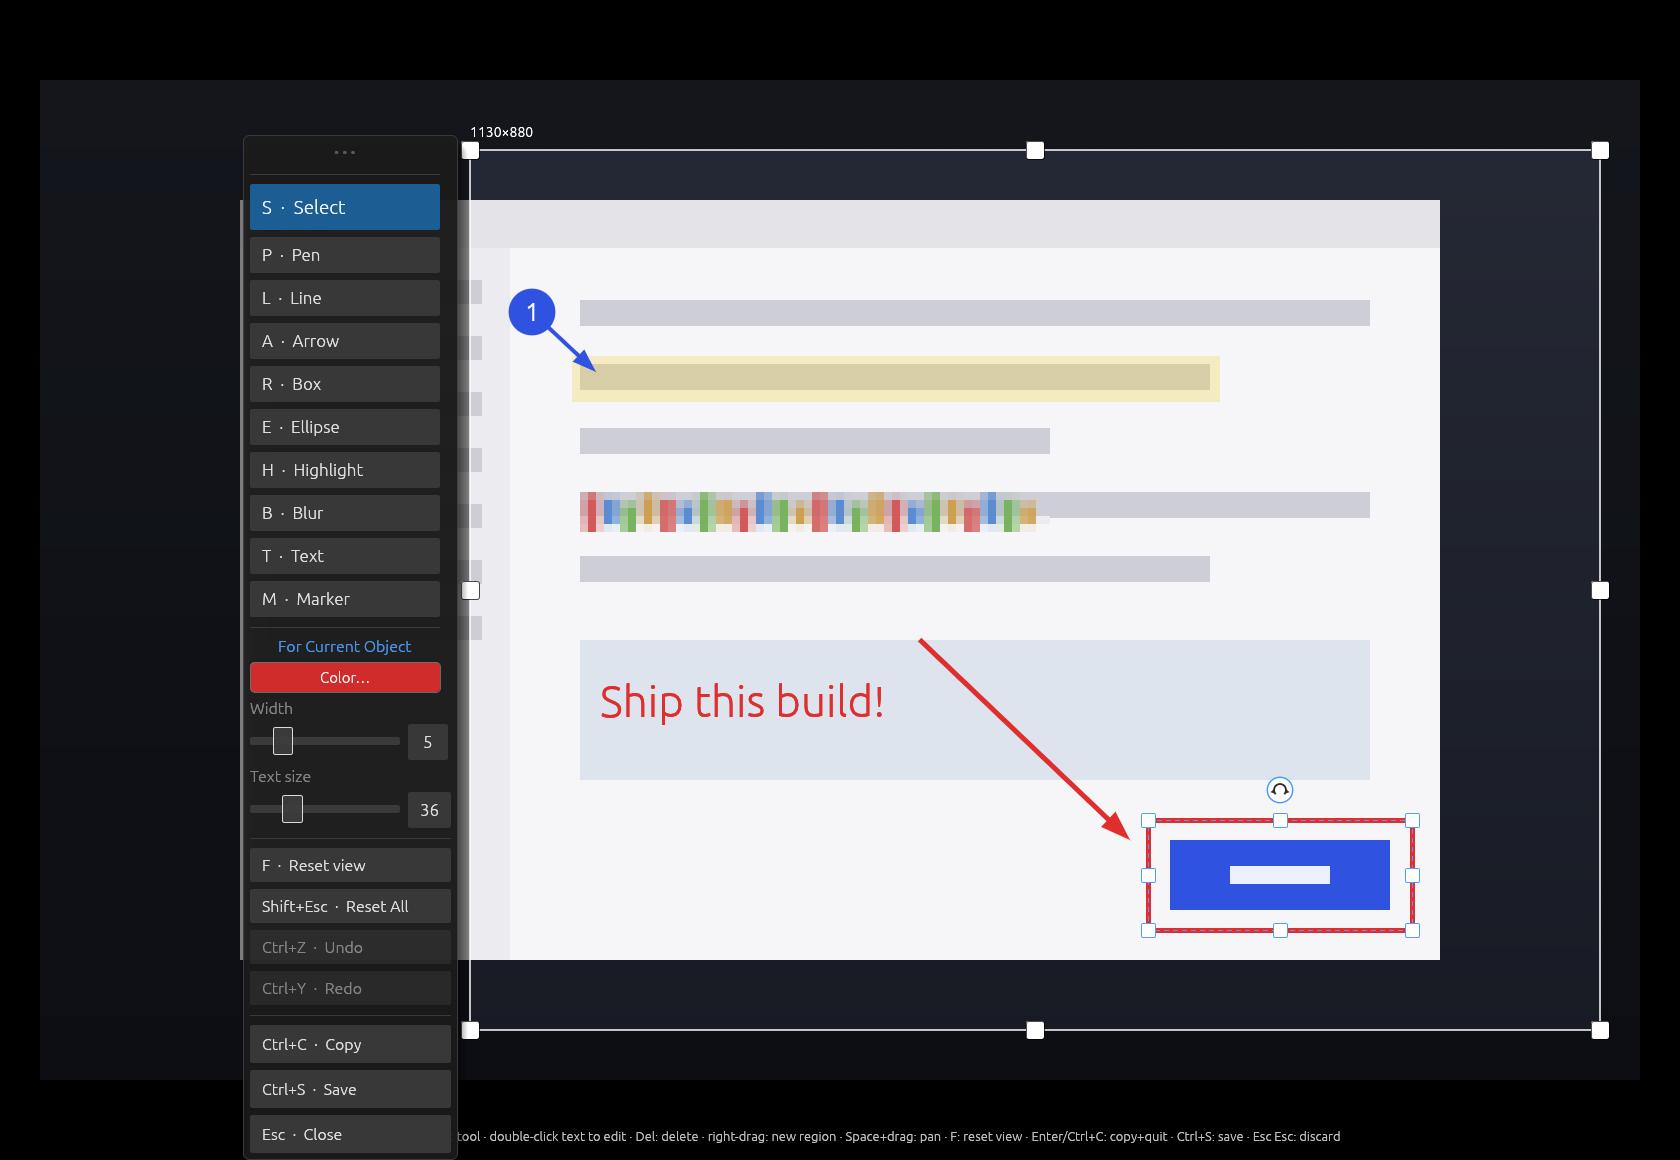
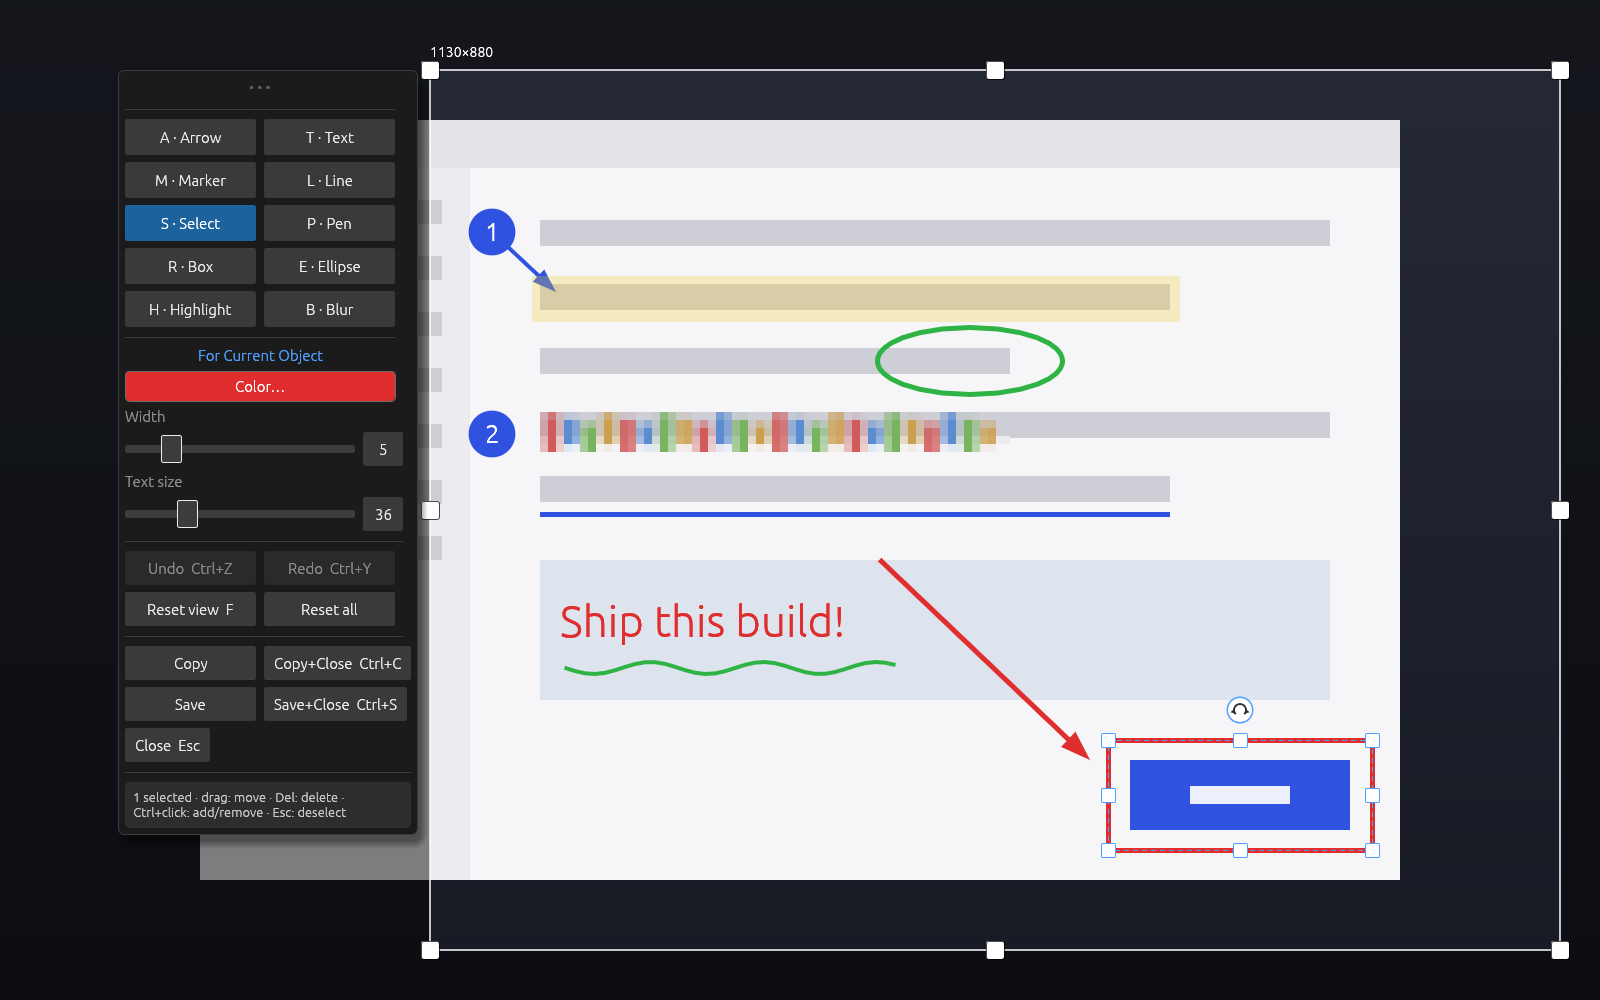
Demo scenes for multiselect and text; refresh README screenshots
- one shared demo document now exercises every tool (adds ellipse,
  line, pen underline, untargeted marker)
- SCRANNOTATE_DEMO gains multiselect and text modes; demo window
  sized 1600x1000 so the frame fills the canvas
- README embeds the two new shots; CONTRIBUTING documents the
  four-mode regen loop

diff --git a/src/app.rs b/src/app.rs
@@ -103,62 +103,83 @@ impl ScreencapApp {
         app
     }
 
-    /// Canned scene for the README screenshots
-    /// (`SCRANNOTATE_DEMO=annotate|picker`).
+    /// Canned scenes for the README screenshots
+    /// (`SCRANNOTATE_DEMO=annotate|multiselect|text|picker`). One shared
+    /// document places every tool's output on the synthetic desktop; the
+    /// modes differ only in what is selected, mid-edit, or popped up.
     fn seed_demo(&mut self, mode: &str) {
         let style = |color, width: f32, font_size: f32| Style { color, width, font_size };
-        let red = PALETTE[0];
+        let rect = |x0: f32, y0: f32, x1: f32, y1: f32| {
+            Rect::from_min_max(Pos2::new(x0, y0), Pos2::new(x1, y1))
+        };
+        let [red, yellow, green, blue, ..] = PALETTE;
         self.editor.style = style(red, 5.0, 36.0);
-        self.editor.doc.region =
-            Some(Rect::from_min_max(Pos2::new(430.0, 70.0), Pos2::new(1560.0, 950.0)));
-        let annotations = vec![
-            Annotation::new(
-                Shape::Rect {
-                    rect: Rect::from_min_max(Pos2::new(1108.0, 740.0), Pos2::new(1372.0, 850.0)),
-                },
-                style(red, 5.0, 36.0),
-            ),
-            Annotation::new(
-                Shape::Arrow { a: Pos2::new(880.0, 560.0), b: Pos2::new(1090.0, 760.0) },
-                style(red, 5.0, 36.0),
-            ),
-            Annotation::new(
-                Shape::Highlight {
-                    rect: Rect::from_min_max(Pos2::new(532.0, 276.0), Pos2::new(1180.0, 322.0)),
-                },
-                style(PALETTE[1], 5.0, 36.0),
-            ),
-            Annotation::new(
-                Shape::Pixelate {
-                    rect: Rect::from_min_max(Pos2::new(532.0, 404.0), Pos2::new(1010.0, 464.0)),
-                },
-                style(red, 5.0, 36.0),
-            ),
-            Annotation::new(
-                Shape::Marker {
-                    pos: Pos2::new(492.0, 232.0),
-                    number: 1,
-                    target: Some(Pos2::new(556.0, 292.0)),
-                },
-                style(PALETTE[3], 4.0, 26.0),
-            ),
-            Annotation::new(
-                Shape::Text { pos: Pos2::new(560.0, 596.0), text: "Ship this build!".to_owned() },
-                style(red, 5.0, 44.0),
-            ),
-        ];
-        let mut first = None;
-        for ann in annotations {
-            let id = self.editor.doc.push(ann);
-            first.get_or_insert(id);
-        }
-        self.editor.doc.marker_next = 2;
+        self.editor.doc.region = Some(rect(430.0, 70.0, 1560.0, 950.0));
+
+        // One annotation per tool, tied to the synthetic desktop's furniture.
+        let doc = &mut self.editor.doc;
+        doc.push(Annotation::new(
+            Shape::Marker {
+                pos: Pos2::new(492.0, 232.0),
+                number: 1,
+                target: Some(Pos2::new(556.0, 292.0)),
+            },
+            style(blue, 4.0, 26.0),
+        ));
+        doc.push(Annotation::new(
+            Shape::Highlight { rect: rect(532.0, 276.0, 1180.0, 322.0) },
+            style(yellow, 5.0, 36.0),
+        ));
+        doc.push(Annotation::new(
+            Shape::Ellipse { rect: rect(880.0, 330.0, 1060.0, 392.0) },
+            style(green, 5.0, 36.0),
+        ));
+        doc.push(Annotation::new(
+            Shape::Marker { pos: Pos2::new(492.0, 434.0), number: 2, target: None },
+            style(blue, 4.0, 26.0),
+        ));
+        doc.push(Annotation::new(
+            Shape::Pixelate { rect: rect(532.0, 404.0, 1010.0, 464.0) },
+            style(red, 5.0, 36.0),
+        ));
+        doc.push(Annotation::new(
+            Shape::Line { a: Pos2::new(540.0, 514.0), b: Pos2::new(1170.0, 514.0) },
+            style(blue, 5.0, 36.0),
+        ));
+        let text = doc.push(Annotation::new(
+            Shape::Text { pos: Pos2::new(560.0, 596.0), text: "Ship this build!".to_owned() },
+            style(red, 5.0, 44.0),
+        ));
+        // A hand-drawn wavy underline beneath the text.
+        let points = (0..=33u8)
+            .map(|i| {
+                let x = 565.0 + f32::from(i) * 10.0;
+                Pos2::new(x, 668.0 + 6.0 * (x / 18.0).sin())
+            })
+            .collect();
+        doc.push(Annotation::new(Shape::Pen { points }, style(green, 4.0, 36.0)));
+        let arrow = doc.push(Annotation::new(
+            Shape::Arrow { a: Pos2::new(880.0, 560.0), b: Pos2::new(1090.0, 760.0) },
+            style(red, 5.0, 36.0),
+        ));
+        let boxed = doc.push(Annotation::new(
+            Shape::Rect { rect: rect(1108.0, 740.0, 1372.0, 850.0) },
+            style(red, 5.0, 36.0),
+        ));
+        doc.marker_next = 3;
+
         self.editor.tool = Tool::Select;
-        if let Some(id) = first {
-            self.editor.selected.insert(id);
-        }
-        if mode == "picker" {
-            self.editor.color_picker = Some(self.editor.style.color);
+        match mode {
+            // Group chrome and the "For 3 Selected" settings target.
+            "multiselect" => self.editor.selected.extend([text, arrow, boxed]),
+            // The inline text editor open on the text, caret and all.
+            "text" => self.editor.open_text_editor(text),
+            _ => {
+                self.editor.selected.insert(boxed);
+                if mode == "picker" {
+                    self.editor.color_picker = Some(self.editor.style.color);
+                }
+            }
         }
     }
 

diff --git a/src/main.rs b/src/main.rs
@@ -134,8 +134,9 @@ fn main() -> Result<()> {
         .with_app_id("scrannotate")
         .with_title("scrannotate");
     viewport = if demo {
-        // Windowed, deterministic size for docs screenshots (run under Xvfb).
-        viewport.with_inner_size([1680.0, 1160.0])
+        // Windowed, deterministic size for docs screenshots; exactly the
+        // demo image's size, so the frame fills the canvas edge to edge.
+        viewport.with_inner_size([1600.0, 1000.0])
     } else {
         viewport.with_fullscreen(true)
     };

diff --git a/README.md b/README.md
@@ -14,7 +14,7 @@ image encoding, no disk round-trip, so the editor is up in a blink. Select,
 annotate, and ship — copy to the clipboard or save a PNG — without ever
 leaving that one surface. No editor window, no dialogs, no save prompts.
 
-![Annotating a capture: region selection, arrow, box, highlight, blur, marker, and text](docs/screenshot-annotate.png)
+![The editor over a frozen frame: numbered markers, a highlight, an ellipse, a blurred strip, a line, inline text with a penned underline, and an arrow into a selected box showing resize handles and a rotate knob](docs/screenshot-annotate.png)
 
 ## Highlights
 
@@ -109,6 +109,9 @@ hotkeys to taste: `Print` → `scrannotate`, `Shift+Print` →
    two per row, Arrow/Text/Marker/Line first. Pick one and draw. Markers
    drop with a click, or drag one to pull an arrow out of it. Text is typed
    inline; Shift+Enter for new lines.
+
+   ![Inline text editing: the string is typed directly on the image in its final font and color, with the status line explaining Enter, Shift+Enter, and Esc](docs/screenshot-text.png)
+
 3. **Refine** — tap `Space` (or `S`) for the Select tool: hover highlights
    what's clickable; click to select, drag to move, handles resize, the
    curved-arrow knob rotates, the four-arrow knob moves text, `Del`
@@ -116,6 +119,9 @@ hotkeys to taste: `Print` → `scrannotate`, `Shift+Print` →
    or removes one item, `Ctrl+A` selects everything); moving, restyling,
    and deleting apply to the whole selection. The settings panel edits
    whatever is selected — or the defaults when nothing is.
+
+   ![A multi-selection: three annotations outlined with dashed boxes, the settings panel targeting "For 3 Selected", and the status line listing what the selection affords](docs/screenshot-multiselect.png)
+
 4. **Ship** — `Enter`/`Ctrl+C` copies the region and closes; `Ctrl+S` saves
    a PNG and closes; the toolbar also has plain Copy/Save buttons that keep
    the editor open. `Esc Esc` discards everything, no questions asked.

diff --git a/CONTRIBUTING.md b/CONTRIBUTING.md
@@ -66,18 +66,25 @@ cargo run -- --from-file some.png            # whole image preselected
 
 ## Regenerating the README screenshots
 
-Screenshots are produced from a deterministic built-in demo scene, rendered
-headlessly under Xvfb:
+Screenshots come from deterministic built-in demo scenes.
+`SCRANNOTATE_DEMO=<mode>` seeds a canned scene — `annotate`, `multiselect`,
+`text`, or `picker`, one per README image — and `SCRANNOTATE_SHOT=<path>`
+saves a window screenshot once the UI settles, then exits. Demo mode never
+reads or writes the user's preferences. Regenerate all four with:
+
+```
+for mode in annotate multiselect text picker; do
+    SCRANNOTATE_DEMO=$mode SCRANNOTATE_SHOT=docs/screenshot-$mode.png \
+        cargo run
+done
+```
+
+Any session that can open a window works (capture isn't involved, so
+`--no-default-features` is fine too). On a headless machine, render under
+Xvfb — unset `WAYLAND_DISPLAY` so winit picks X11:
 
 ```
 sudo apt install xvfb mesa-vulkan-drivers
 Xvfb :99 -screen 0 1920x1200x24 -ac -nolisten tcp &
-DISPLAY=:99 SCRANNOTATE_DEMO=annotate SCRANNOTATE_SHOT=docs/screenshot-annotate.png \
-    cargo run   # unset WAYLAND_DISPLAY so winit picks X11
-DISPLAY=:99 SCRANNOTATE_DEMO=picker SCRANNOTATE_SHOT=docs/screenshot-picker.png \
-    cargo run
+DISPLAY=:99 SCRANNOTATE_DEMO=annotate ... cargo run
 ```
-
-`SCRANNOTATE_DEMO=annotate|picker` seeds the canned scene;
-`SCRANNOTATE_SHOT=<path>` saves a window screenshot once the UI settles and
-exits. Demo mode never reads or writes the user's preferences.
